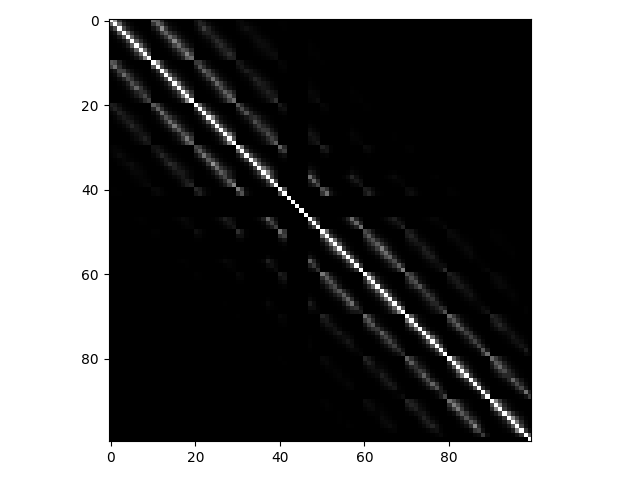
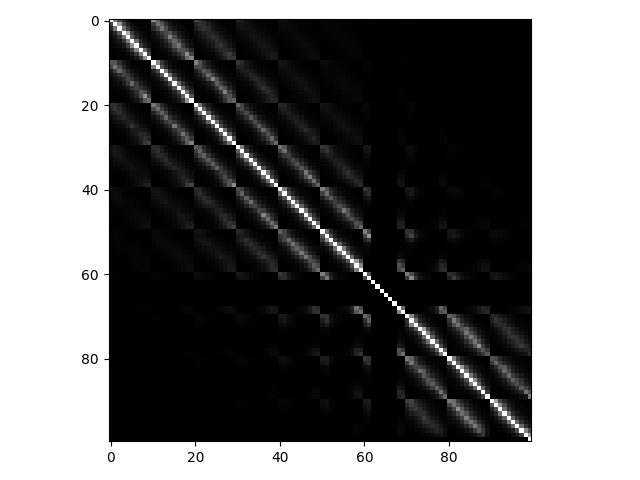
figure 2c, 3b replicating.

diff --git a/figure3b.py b/figure3b.py
@@ -1,4 +1,6 @@
-# refactoring https://github.com/nicoring/hippocampus-predictive-map for me
+# refactoring https://github.com/nicoring/hippocampus-predictive-map
+# this code intended for replicatig the figure 3B.
+# almost same with figure 2c, but has option for directional bias
 
 # load libray
 import copy
@@ -12,7 +14,9 @@ import sr
 
 # maze env
 
-MAZE_LENGTH = 10
+MAZE_LENGTH = 300 # p.8 of supplement, 
+
+SR_POINT = int(MAZE_LENGTH * 0.50)
 
 maze = mm.make_1D(MAZE_LENGTH)
 
@@ -27,7 +31,7 @@ END = [0, MAZE_LENGTH - 1]
 
 # hyperparameter for updating SR matrix
 alpha = 0.1
-gamma = 0.9
+gamma = 0.9 # p.8 of supplement
 
 # make actions and receive reward
 def step(state, action):
@@ -45,12 +49,8 @@ def step(state, action):
 
 # action policy
 def choose_action(state, prefered = True):
-    '''
-    TODO 나중에 Qlearning으로 변환할 경우 q value, epsilon-greedy로 수정할 것.
-    지금은 그냥 fixed policy임. 
-    '''
     if prefered == True:
-        action = np.random.binomial(1, 0.8)
+        action = np.random.binomial(1, 0.66)
     elif prefered == False:
         action = np.random.binomial(1, 0.5)
     else:
@@ -62,60 +62,57 @@ def choose_action(state, prefered = True):
 # prepare for SR matrix
 all_states = [[x, y] for x in range(maze.shape[0]) for y in range(maze.shape[1])]
 
-sr_matrix = np.eye(len(all_states), dtype=np.float)
 
-history_sr_matrix = []
+#sr_matrix = np.eye(len(all_states), dtype=np.float)
+bias_sr_matrix = []
+prefer_ = [True, False]
 
-history_exp_idx = 0
-
-for i in tqdm(range(1001)):
-    state = START
-    if i == 0: 
-        history_sr_matrix.append(copy.deepcopy(sr_matrix[:, len(all_states)-1]))
+for idx in tqdm(range(len(prefer_))):
+    sr_matrix = np.eye(len(all_states), dtype=np.float)
+    for i in tqdm(range(1001)):
+        state = START
     
-    while state != END:
-        action = choose_action(state, prefered=True)
-        next_state, _ = step(state, action)
-        sr_matrix = sr.update_SR_matrix(state, next_state, sr_matrix, \
-             all_states, alpha = alpha, gamma = gamma)
+        while state != END:
+            action = choose_action(state, prefered=prefer_[idx])
+        
+            next_state, _ = step(state, action)
+            sr_matrix = sr.update_SR_matrix(state, next_state, sr_matrix, \
+                 all_states, alpha = alpha, gamma = gamma)
+            state = next_state
 
-        state = next_state
+    bias_sr_matrix.append(copy.deepcopy(sr_matrix[:, SR_POINT]))
 
-    if i == (10 ** history_exp_idx):
-       history_sr_matrix.append(copy.deepcopy(sr_matrix[:, len(all_states)-1]))
-       history_exp_idx += 1
+
     
- 
+''' 
 def figure_matrix():  
     fig, ax = plt.subplots() 
     ax.imshow(sr_matrix, cmap='gray', interpolation='nearest')
-    '''
+   
     for idx in range(sr_matrix.shape[0]):
         for jdx in range(sr_matrix.shape[1]):
             text = ax.text(jdx, idx,round(sr_matrix[idx, jdx],2), \
                 ha = "center", va = "center", color = "b")
-    '''        
+    this code intended for text annotation for probability. 
+    however too many cells are drawn to annotate each probability.
+            
     fig.tight_layout()
     plt.savefig('./images/sr_matrix_' + str(MAZE_LENGTH) + '.png')
     plt.close()
+'''
 
-def figure_history():
+def figure_3b():
     '''
-    원래 논문의 figure 2C에 해당됨.
+    draw figure 3B
     '''
-    for_legend = []
-    for idx in range(len(history_sr_matrix)):
-        plt.plot(history_sr_matrix[idx])
-        if idx == 0:
-            for_legend.append("init")
-        else:
-            for_legend.append("10^"+str(idx-1))
+    for_legend = ['Directional bias', 'No directional bias']
+    for idx in range(len(bias_sr_matrix)):
+        plt.plot(bias_sr_matrix[idx])
     plt.legend(for_legend, loc = 'upper left')
-    plt.savefig('./images/sr_histroy_' + str(MAZE_LENGTH) + '.png')
-
+    # plt.savefig('./images/sr_histroy_' + str(MAZE_LENGTH) + '.png')
+    plt.savefig('./images/figure3b.png')
 
 if __name__=='__main__':
-    figure_matrix()
-    figure_history()
+    figure_3b()
 
 

diff --git a/figure2C.py b/figure2C.py
@@ -1,0 +1,125 @@
+# refactoring https://github.com/nicoring/hippocampus-predictive-map
+# this code intended for replicatig the figure 2C.
+
+# load libray
+import copy
+import numpy as np
+import matplotlib.pyplot as plt
+from tqdm import tqdm
+import mazemaking as mm
+import sr
+
+# simple 1D maze with agent going right.
+
+# maze env
+
+MAZE_LENGTH = 50 # p.8 of supplement, 
+# the paper said that 500 states were used for 1D maze, it seems to be typo
+# 50 states shows similar results with the figure 2C.
+SR_POINT = int(MAZE_LENGTH * 0.75)
+
+maze = mm.make_1D(MAZE_LENGTH)
+
+# action on 1D maze
+ACTION_LT = 0
+ACTION_RT = 1
+ACTIONS = [ACTION_LT, ACTION_RT]
+
+# state information
+START = [0, 0]
+END = [0, MAZE_LENGTH - 1]
+
+# hyperparameter for updating SR matrix
+alpha = 0.1
+gamma = 0.84 # p.8 of supplement
+# the paper said that 0.084 gamma was used for 1D maze,
+# 0.84 gamma shows similar results. With smaller gamma, the sharper SR rate shows.
+
+# make actions and receive reward
+def step(state, action):
+    i, j = state
+    if action == ACTION_LT:
+        next_state = [i, max(j - 1, 0)]
+    elif action == ACTION_RT:
+        next_state = [i, min(j + 1, MAZE_LENGTH - 1)]
+    else:
+        assert False
+    
+    reward = 0
+
+    return next_state, reward
+
+# action policy
+def choose_action(state, prefered = True):
+    if prefered == True:
+        action = np.random.binomial(1, 1)
+    elif prefered == False:
+        action = np.random.binomial(1, 0.5)
+    else:
+        assert False
+    return action
+
+
+
+# prepare for SR matrix
+all_states = [[x, y] for x in range(maze.shape[0]) for y in range(maze.shape[1])]
+
+sr_matrix = np.eye(len(all_states), dtype=np.float)
+
+history_sr_matrix = []
+
+history_exp_idx = 0
+
+for i in tqdm(range(10001)):
+    state = START
+    if i == 0: 
+        history_sr_matrix.append(copy.deepcopy(sr_matrix[:, SR_POINT]))
+    
+    while state != END:
+        action = choose_action(state, prefered=True)
+        next_state, _ = step(state, action)
+        sr_matrix = sr.update_SR_matrix(state, next_state, sr_matrix, \
+             all_states, alpha = alpha, gamma = gamma)
+
+        state = next_state
+
+    if i == (10 ** history_exp_idx):
+       history_sr_matrix.append(copy.deepcopy(sr_matrix[:, SR_POINT]))
+       history_exp_idx += 1
+    
+ 
+def figure_matrix():  
+    fig, ax = plt.subplots() 
+    ax.imshow(sr_matrix, cmap='gray', interpolation='nearest')
+    '''
+    for idx in range(sr_matrix.shape[0]):
+        for jdx in range(sr_matrix.shape[1]):
+            text = ax.text(jdx, idx,round(sr_matrix[idx, jdx],2), \
+                ha = "center", va = "center", color = "b")
+    this code intended for text annotation for probability. 
+    however too many cells are drawn to annotate each probability.
+    '''        
+    fig.tight_layout()
+    plt.savefig('./images/sr_matrix_' + str(MAZE_LENGTH) + '.png')
+    plt.close()
+
+def figure_history():
+    '''
+    draw figure 2C
+    '''
+    for_legend = []
+    for idx in range(len(history_sr_matrix)):
+        plt.plot(history_sr_matrix[idx])
+        if idx == 0:
+            for_legend.append("init")
+        else:
+            for_legend.append("10^"+str(idx-1))
+    plt.legend(for_legend, loc = 'upper left')
+    # plt.savefig('./images/sr_histroy_' + str(MAZE_LENGTH) + '.png')
+    plt.savefig('./images/figure2c.png')
+
+if __name__=='__main__':
+    figure_matrix()
+    figure_history()
+
+

diff --git a/2D_maze_test.py b/2D_maze_test.py
@@ -15,13 +15,18 @@ MAZE_LENGTH = 100
 square_maze = mm.square_maze(MAZE_LENGTH)
 
 # put barrier
-B_LENGTH = 40
+B_LENGTH = 60
+B_THICKNESS = 10
 B_X_POSTION = 20
-B_Y_POSTION = 40
-barriers = [[B_Y_POSTION, y] for y in range(B_X_POSTION, B_X_POSTION + B_LENGTH)]
+B_Y_POSTION = 60
+barriers = [[x, y] for x in range(B_Y_POSTION, B_Y_POSTION + B_THICKNESS) \
+     for y in range(B_X_POSTION, B_X_POSTION + B_LENGTH)]
 
 square_with_barrier = mm.make_barrier_maze_square(square_maze, \
-    B_LENGTH, B_X_POSTION, B_Y_POSTION)
+    B_LENGTH, B_X_POSTION, B_Y_POSTION, B_THICKNESS)
+
+SR_CELL = int(((B_Y_POSTION + B_THICKNESS) * MAZE_LENGTH) + \
+    ((B_X_POSTION + B_LENGTH) / 2))
 
 # action on 2D maze
 ACTION_UP = 0
@@ -86,7 +91,7 @@ sr_matrix = np.eye(len(all_states), dtype=np.float)
 # history_exp_idx = 0
 # 2D maze에서 history를 보는 것은 힘든 것 같다.
 
-for i in tqdm(range(10)):
+for i in tqdm(range(20)):
     state = START
     
     while state != END:
@@ -98,8 +103,11 @@ for i in tqdm(range(10)):
         state = next_state
 
 
-sr_point = copy.deepcopy(sr_matrix[:, 3050])
-    
+sr_point = copy.deepcopy(sr_matrix[:, SR_CELL])
+sr_point = sr_point.reshape(square_with_barrier.shape)
+
+sr_point_with_barrier = mm.make_barrier_maze_square(sr_point, \
+    B_LENGTH, B_X_POSTION, B_Y_POSTION, B_THICKNESS, for_sr = True)   
  
 def figure_matrix():  
     fig, ax = plt.subplots() 
@@ -116,8 +124,7 @@ def figure_matrix():
 
 def figure_sr_point():
     fig, ax = plt.subplots() 
-    ax.imshow(sr_point.reshape(square_maze.shape),\
-         cmap='gray', interpolation='nearest')
+    ax.imshow(sr_point_with_barrier, cmap='gray', interpolation='nearest')
     '''
     for idx in range(sr_matrix.shape[0]):
         for jdx in range(sr_matrix.shape[1]):

diff --git a/mazemaking.py b/mazemaking.py
@@ -7,15 +7,15 @@ def make_1D(length):
 def square_maze(size):
     return np.ones((size, size))
 
-def make_barrier_maze_square(square_maze, barrier_size, barrier_x_position, \
-    barrier_y_position):
+def make_barrier_maze_square(square_maze, barrier_length, barrier_x_position, \
+    barrier_y_position, barrier_thickness = 1, for_sr = False):
     '''
     make horizontal barrier in the square maze.
     '''
-    if square_maze.shape[0] < barrier_size:
+    if square_maze.shape[0] < barrier_length:
         print('barrier cannot exceed the size of maze')
         raise ValueError
-    elif square_maze.shape[1] < (barrier_x_position + barrier_size):
+    elif square_maze.shape[1] < (barrier_x_position + barrier_length):
         print('cannot put barrier outside of the maze')
         raise ValueError
     elif square_maze.shape[0] < barrier_y_position:
@@ -24,7 +24,9 @@ def make_barrier_maze_square(square_maze, barrier_size, barrier_x_position, \
     else:
         pass
     new_maze = copy.deepcopy(square_maze)
-    new_maze[barrier_y_position, \
-        barrier_x_position:barrier_x_position+barrier_size] = 0
+
+    new_maze[barrier_y_position:barrier_y_position + barrier_thickness, \
+        barrier_x_position:barrier_x_position + barrier_length] = 0 \
+            if for_sr == False else 1
 
     return new_maze

diff --git a/test.py b/test.py
@@ -1,7 +1,24 @@
 import mazemaking as mm
 
+# maze env
+
 MAZE_LENGTH = 10
 
-maze = mm.make_1D(MAZE_LENGTH)
+square_maze = mm.square_maze(MAZE_LENGTH)
 
-print(maze)
+# put barrier
+B_LENGTH = 6
+B_THICKNESS = 1
+B_X_POSTION = 2
+B_Y_POSTION = 6
+barriers = [[B_Y_POSTION, y] for y in range(B_X_POSTION, B_X_POSTION + B_LENGTH)]
+
+square_with_barrier = mm.make_barrier_maze_square(square_maze, \
+    B_LENGTH, B_X_POSTION, B_Y_POSTION, B_THICKNESS)
+
+barriers = [[x, y] for x in range(B_Y_POSTION, B_Y_POSTION + B_THICKNESS) \
+     for y in range(B_X_POSTION, B_X_POSTION + B_LENGTH)]
+
+SR_CELL = int(((B_Y_POSTION + B_THICKNESS) * MAZE_LENGTH) + \
+    ((B_X_POSTION + B_LENGTH) / 2))
+print(SR_CELL)

diff --git a/sr.py b/sr.py
@@ -20,5 +20,5 @@ def update_SR_matrix(state, next_state, sr_matrix, all_states, alpha = 0.1, \
     M_next_state_V = sr_matrix[idx_next_state, :]
     sr_matrix[idx_state, :] = M_state_V + alpha * (I + \
         gamma * M_next_state_V - M_state_V)
-    sr_matrix[idx_state, idx_state] = 1
+    #sr_matrix[idx_state, idx_state] = 1
     return sr_matrix  
